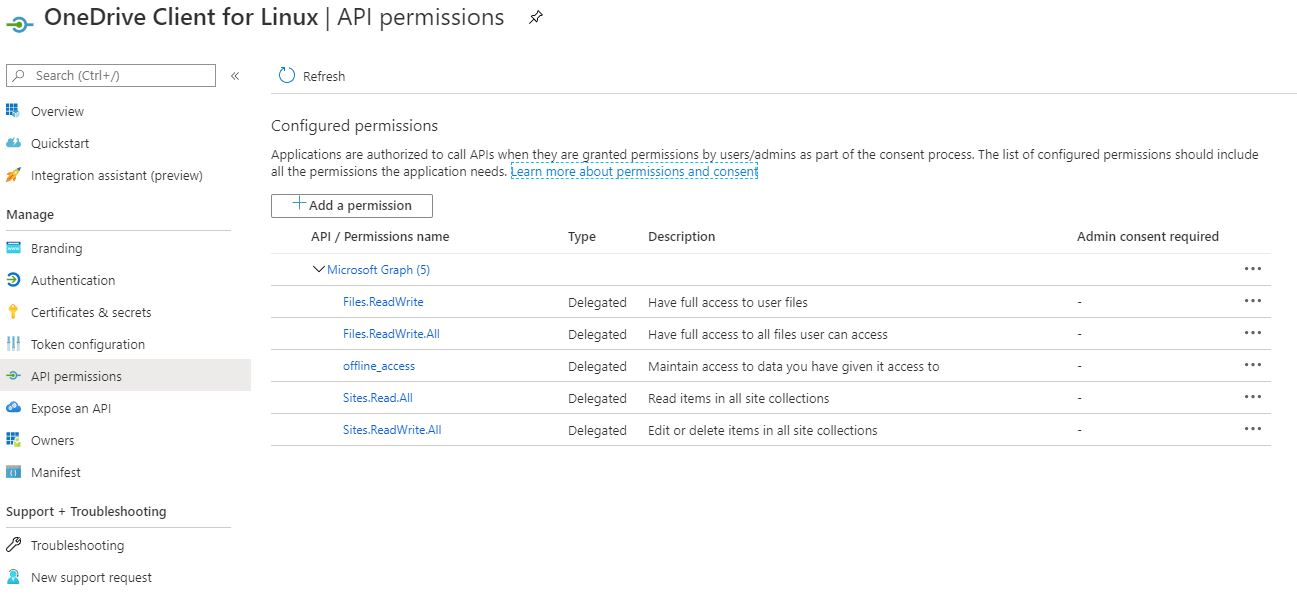
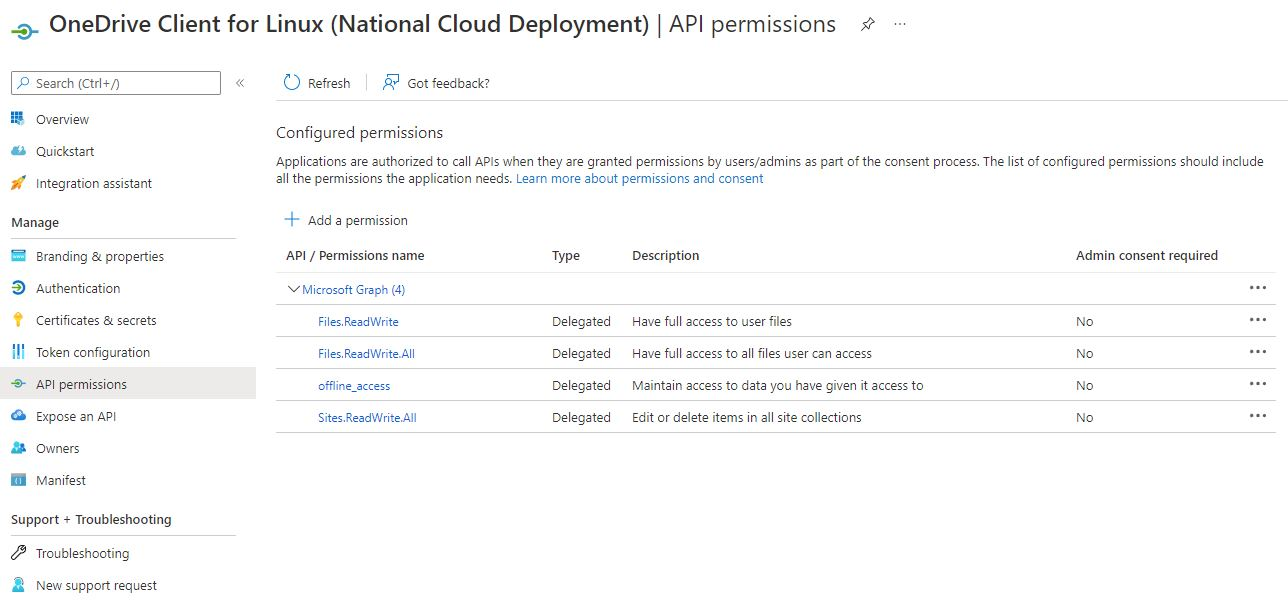
Add option to request readonly access in oauth authorization step (#2065)
* Add option to request readonly access in oauth authorization step
* Add application-security.md to document application security

diff --git a/docs/application-security.md b/docs/application-security.md
@@ -1,0 +1,67 @@
+# OneDrive Client for Linux Application Security
+This document details the application security used, and provides details for users on changing these security options.
+
+There are 2 main components regarding security for this application:
+* Azure Application Permissions
+* User Authentication Permissions
+
+## Default Application Security
+Security options should follow the security principal of 'least privilege':
+> The principle that a security architecture should be designed so that each entity 
+> is granted the minimum system resources and authorizations that the entity needs 
+> to perform its function.
+
+Reference: [https://csrc.nist.gov/glossary/term/least_privilege](https://csrc.nist.gov/glossary/term/least_privilege)
+
+As such, the following API permissions are used by default:
+
+### Default Azure Application Permissions
+
+| API / Permissions name | Type | Description | Admin consent required |
+|---|---|---|---|
+| Files.Read | Delegated | Have read-only access to user files | No |
+| Files.Read.All  | Delegated | Have read-only access to all files user can access | No |
+| Sites.Read.All   | Delegated | Have read-only access to all items in all site collections | No |
+| offline_access   | Delegated | Maintain access to data you have given it access to | No |
+
+![default_authentication_scopes](./images/default_authentication_scopes.jpg)
+
+### Default User Authentication Permissions
+
+| API / Permissions name | Type | Description | Admin consent required |
+|---|---|---|---|
+| Files.ReadWrite | Delegated | Have full access to user files | No |
+| Files.ReadWrite.All  | Delegated | Have full access to all files user can access | No |
+| Sites.ReadWrite.All   | Delegated | Have full access to all items in all site collections | No |
+| offline_access   | Delegated | Maintain access to data you have given it access to | No |
+
+When these delegated API permissions are commbined, these provide the effective authentication scope for the OneDrive Client for Linux to access your data. The effective 'default' permissions will be:
+
+| API / Permissions name | Type | Description | Admin consent required |
+|---|---|---|---|
+| Files.ReadWrite | Delegated | Have full access to user files | No |
+| Files.ReadWrite.All  | Delegated | Have full access to all files user can access | No |
+| Sites.ReadWrite.All   | Delegated | Have full access to all items in all site collections | No |
+| offline_access   | Delegated | Maintain access to data you have given it access to | No |
+
+These 'default' permissions will allow the OneDrive Client for Linux to read, write and delete data associated with your OneDrive Account.
+
+## Configuring read-only access to your OneDrive data
+In some situations, it may be desirable to configure the OneDrive Client for Linux totally in read-only operation.
+
+To change the application to 'read-only' access, add the following to your configuration file:
+```text
+read_only_auth_scope = "true"
+```
+
+This will change the user authentication scope requect to use read-only access. When using read-only authentication scopes, the uploading of any data or local change to OneDrive will fail.
+
+**Note:** When changing this value, you *must* re-authenticate the client using the `--reauth` option to utilise the change in authentication scopes. 
+
+**Important:** You also will need to remove your existing application access consent otherwise old authentication consent will still be used and you will still be able to upload changes to OneDrive.
+ 
+## Reviewing your existing application access consent
+
+To review your existing application access consent, you need to access the following URL: https://account.live.com/consent/Manage
+
+From here, you are able to review what applications have been given what access to your data, and remove application access as required.

diff --git a/docs/national-cloud-deployments.md b/docs/national-cloud-deployments.md
@@ -35,9 +35,8 @@ Configure the API permissions as per the following:
 |---|---|---|---|
 | Files.ReadWrite | Delegated | Have full access to user files | No |
 | Files.ReadWrite.All  | Delegated | Have full access to all files user can access | No |
+| Sites.ReadWrite.All   | Delegated | Have full access to all items in all site collections | No |
 | offline_access   | Delegated | Maintain access to data you have given it access to | No |
-| Sites.Read.All   | Delegated | Read items in all site collections | No |
-| Sites.ReadWrite.All   | Delegated | Edit or delete items in all site collections | No |
 
 ![authentication_scopes](./images/authentication_scopes.jpg)
 
